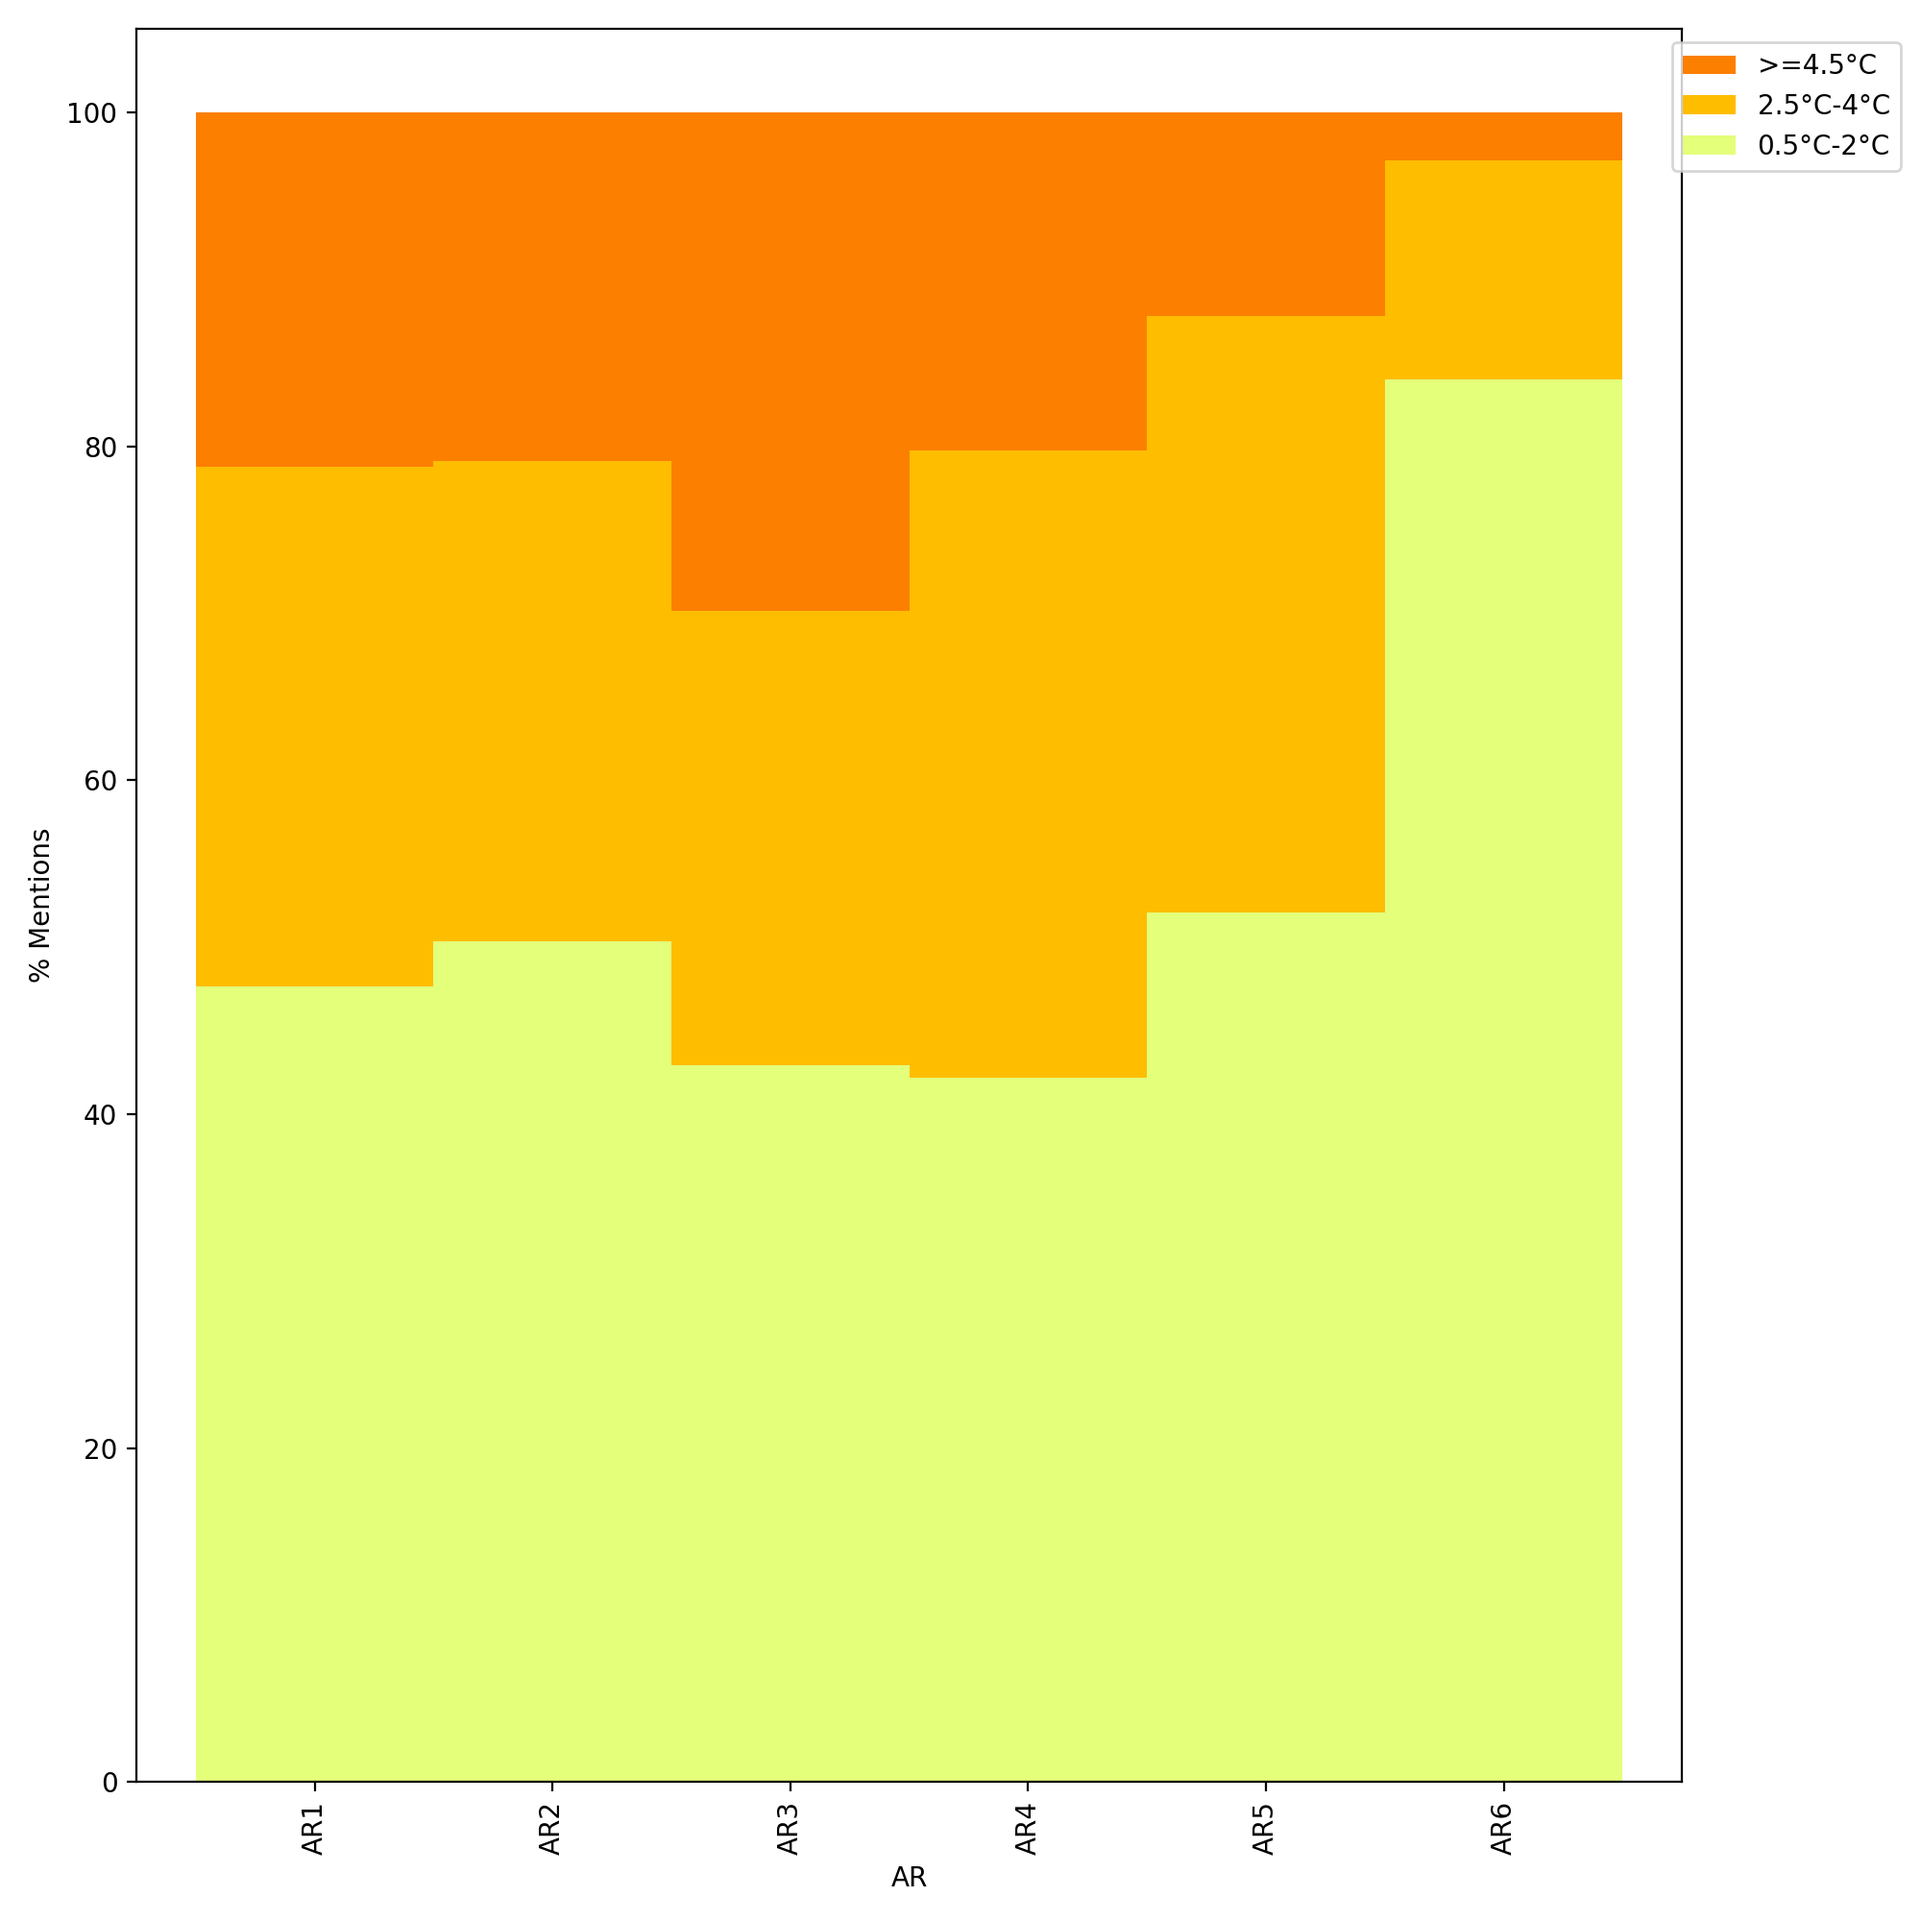
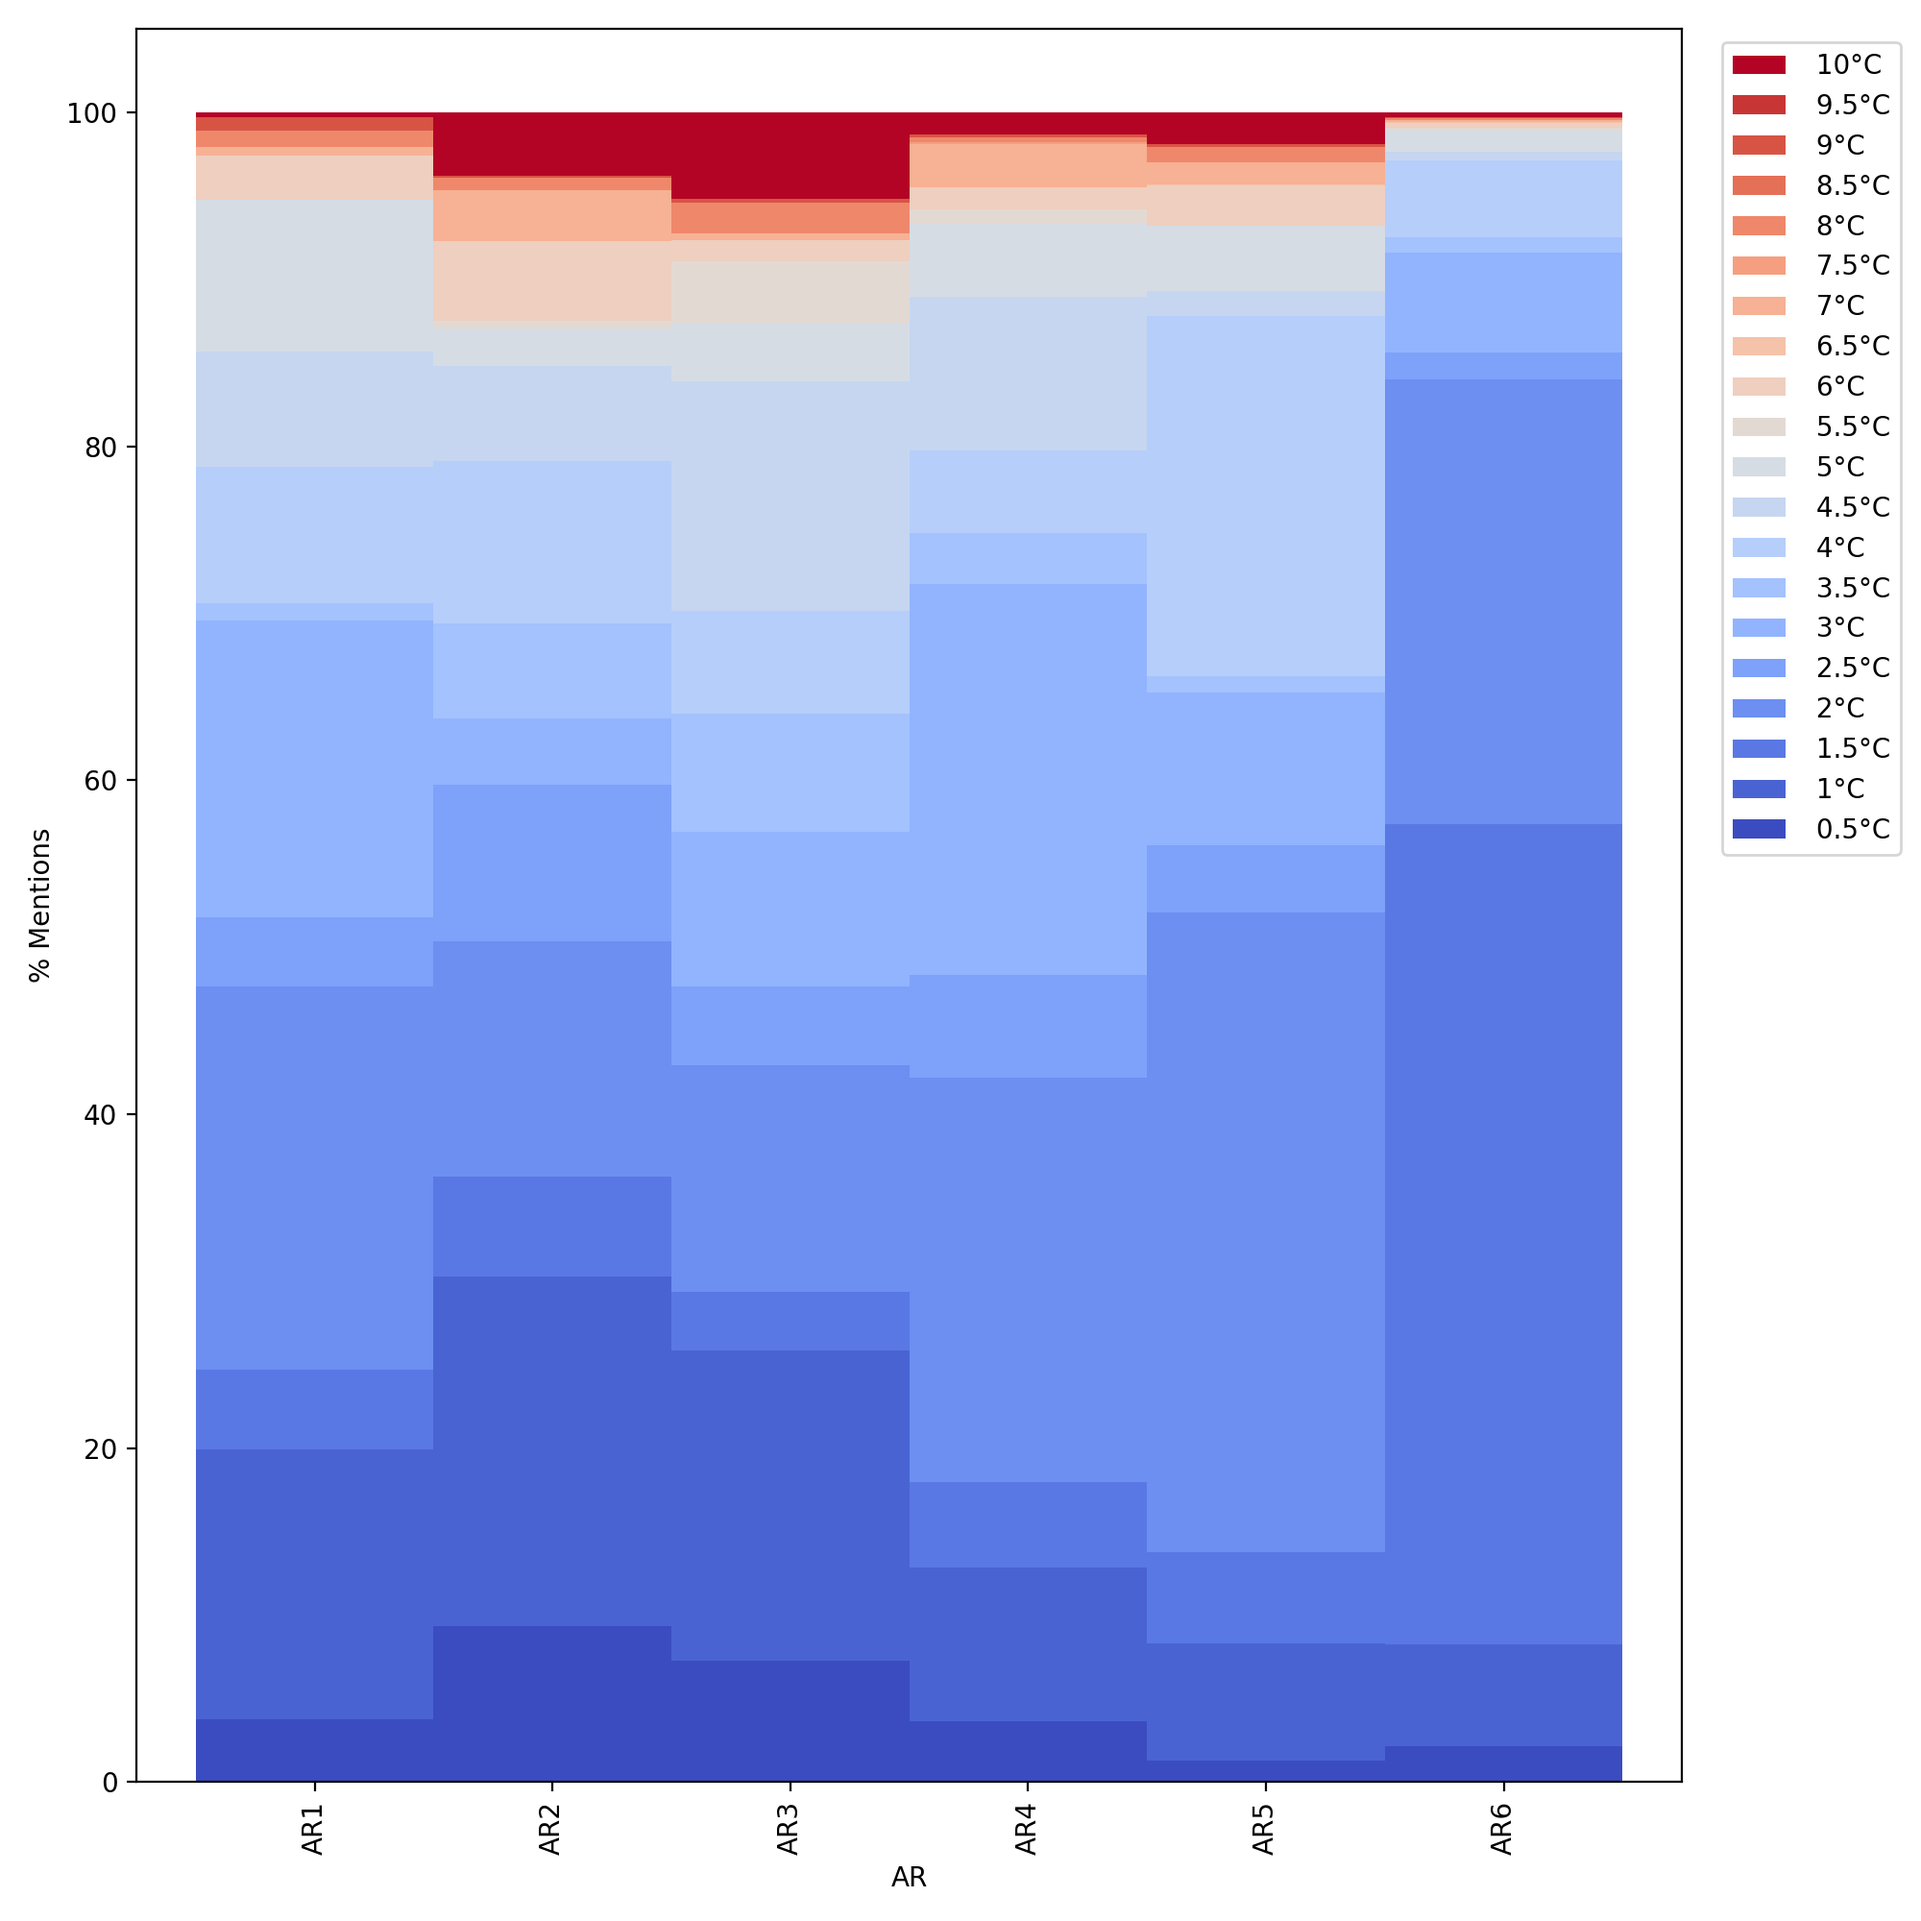
Finished first version of pretty plot

diff --git a/figure_1.py b/figure_1.py
@@ -87,16 +87,44 @@ def merge_counts_meta(ipcc_counts, meta):
 def plot_all_temp_by_ar(ipcc_counts, meta):
     """Plots all temperatures for all assessment reports  """
     ipcc_counts = scale_counts(ipcc_counts.copy())
+    # group for second layer of plot
+    ipcc_counts_grouped = group_temps(ipcc_counts.copy())
+    temp_groups =  ipcc_counts_grouped.columns
+    # prep for plotting
     counts_meta = merge_counts_meta(ipcc_counts, meta)
+    counts_meta = merge_counts_meta(counts_meta, ipcc_counts_grouped)
     temps = create_temp_keys()
-    ax = counts_meta.groupby("AR")[temps].mean().plot(cmap="YlOrRd", kind="bar", width=1, stacked=True)
+    # Plot the seperate temps
+    ax = counts_meta.groupby("AR")[temps].mean().plot(cmap="coolwarm", kind="bar", width=1, stacked=True)    
     handles, labels = ax.get_legend_handles_labels()
     ax.legend(handles[::-1], labels[::-1],loc='upper right', bbox_to_anchor=(1.15, 1))
+    # Plot the temp groups
+    temp_group_means_by_ar = counts_meta.groupby("AR")[temp_groups].mean()
+    # prep df for stacking
+    temp_group_means_by_ar["2.5°C-4°C"] = temp_group_means_by_ar["2.5°C-4°C"] + temp_group_means_by_ar["0.5°C-2°C"]
+    del(temp_group_means_by_ar[">=4.5°C"])
+    # plot  group lines
+    for temp_group in temp_groups[:-1]:
+        last_AR = 0
+        for i, AR in enumerate(temp_group_means_by_ar[temp_group]):
+            # plot horizontal line
+            ax.plot([i-0.5,i+1-0.5], [AR,AR], color="black")
+            # Plot vertical lines
+            if i > 0:
+                ax.plot([i-0.5, i-0.5], [AR, last_AR], color="black")    
+                last_AR = AR
+            else:
+                 last_AR = AR
+
+    for temp_group, y_pos in zip(temp_groups, [20,60,90]):
+        ax.text(2, y_pos,temp_group, fontsize=20, fontweight="bold")
+        
+    # Make pretty
     ax.set_ylabel("% Mentions")
     fig = plt.gcf()
     fig.set_size_inches(10,10)
     fig.tight_layout()
-    plt.savefig("Figures"+ os.sep +"AR_all_temps.png", dpi=200)
+    plt.savefig("Figures"+ os.sep +"AR_all_temps_and_grouped.png", dpi=200)
     plt.close()
     
 def plot_group_temp_by_ar(ipcc_counts, meta):
@@ -105,7 +133,7 @@ def plot_group_temp_by_ar(ipcc_counts, meta):
     temps=ipcc_counts.columns
     ipcc_counts = scale_counts(ipcc_counts.copy())
     counts_meta = merge_counts_meta(ipcc_counts, meta)
-    ax = counts_meta.groupby("AR")[temps].mean().plot(cmap="Wistia", kind="bar", width=1, stacked=True)
+    ax = counts_meta.groupby("AR")[temps].mean().plot(cmap="coolwarm", kind="bar", width=1, stacked=True)
     handles, labels = ax.get_legend_handles_labels()
     ax.legend(handles[::-1], labels[::-1],loc='upper right', bbox_to_anchor=(1.15, 1))
     ax.set_ylabel("% Mentions")
@@ -113,6 +141,7 @@ def plot_group_temp_by_ar(ipcc_counts, meta):
     fig.set_size_inches(10,10)
     fig.tight_layout()
     plt.savefig("Figures"+ os.sep +"AR_group_temps.png", dpi=200)    
+    plt.close()
 
 def create_temp_keys():
     temps = []
@@ -143,7 +172,7 @@ if __name__ == "__main__":
    # ipcc_counts_scaled = scale_counts(ipcc_counts_grouped.copy())
     
     plot_all_temp_by_ar(ipcc_counts, meta)
-    plot_group_temp_by_ar(ipcc_counts, meta)
+#    plot_group_temp_by_ar(ipcc_counts, meta)
     # # WG plotting
     # fig, axes = plt.subplots(nrows=3,sharey=True, sharex=True)
     # axes.flatten()
